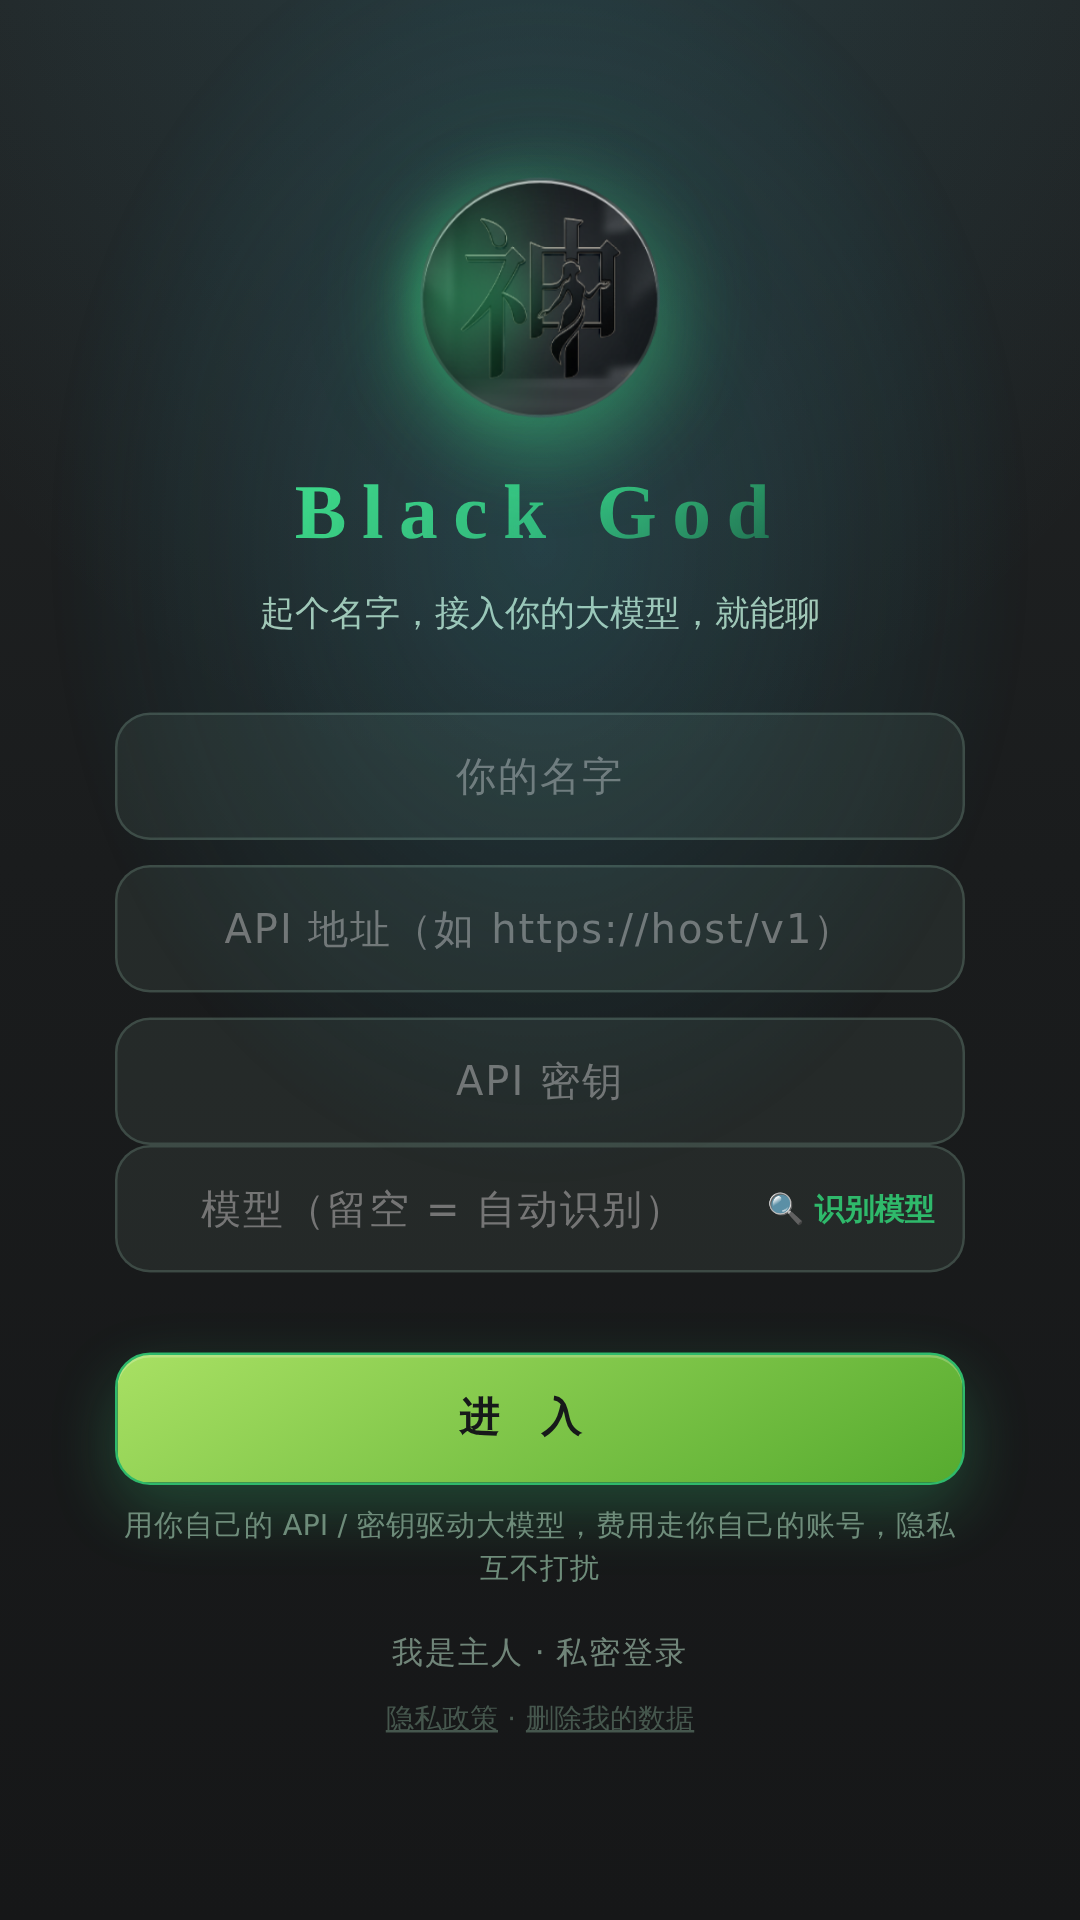
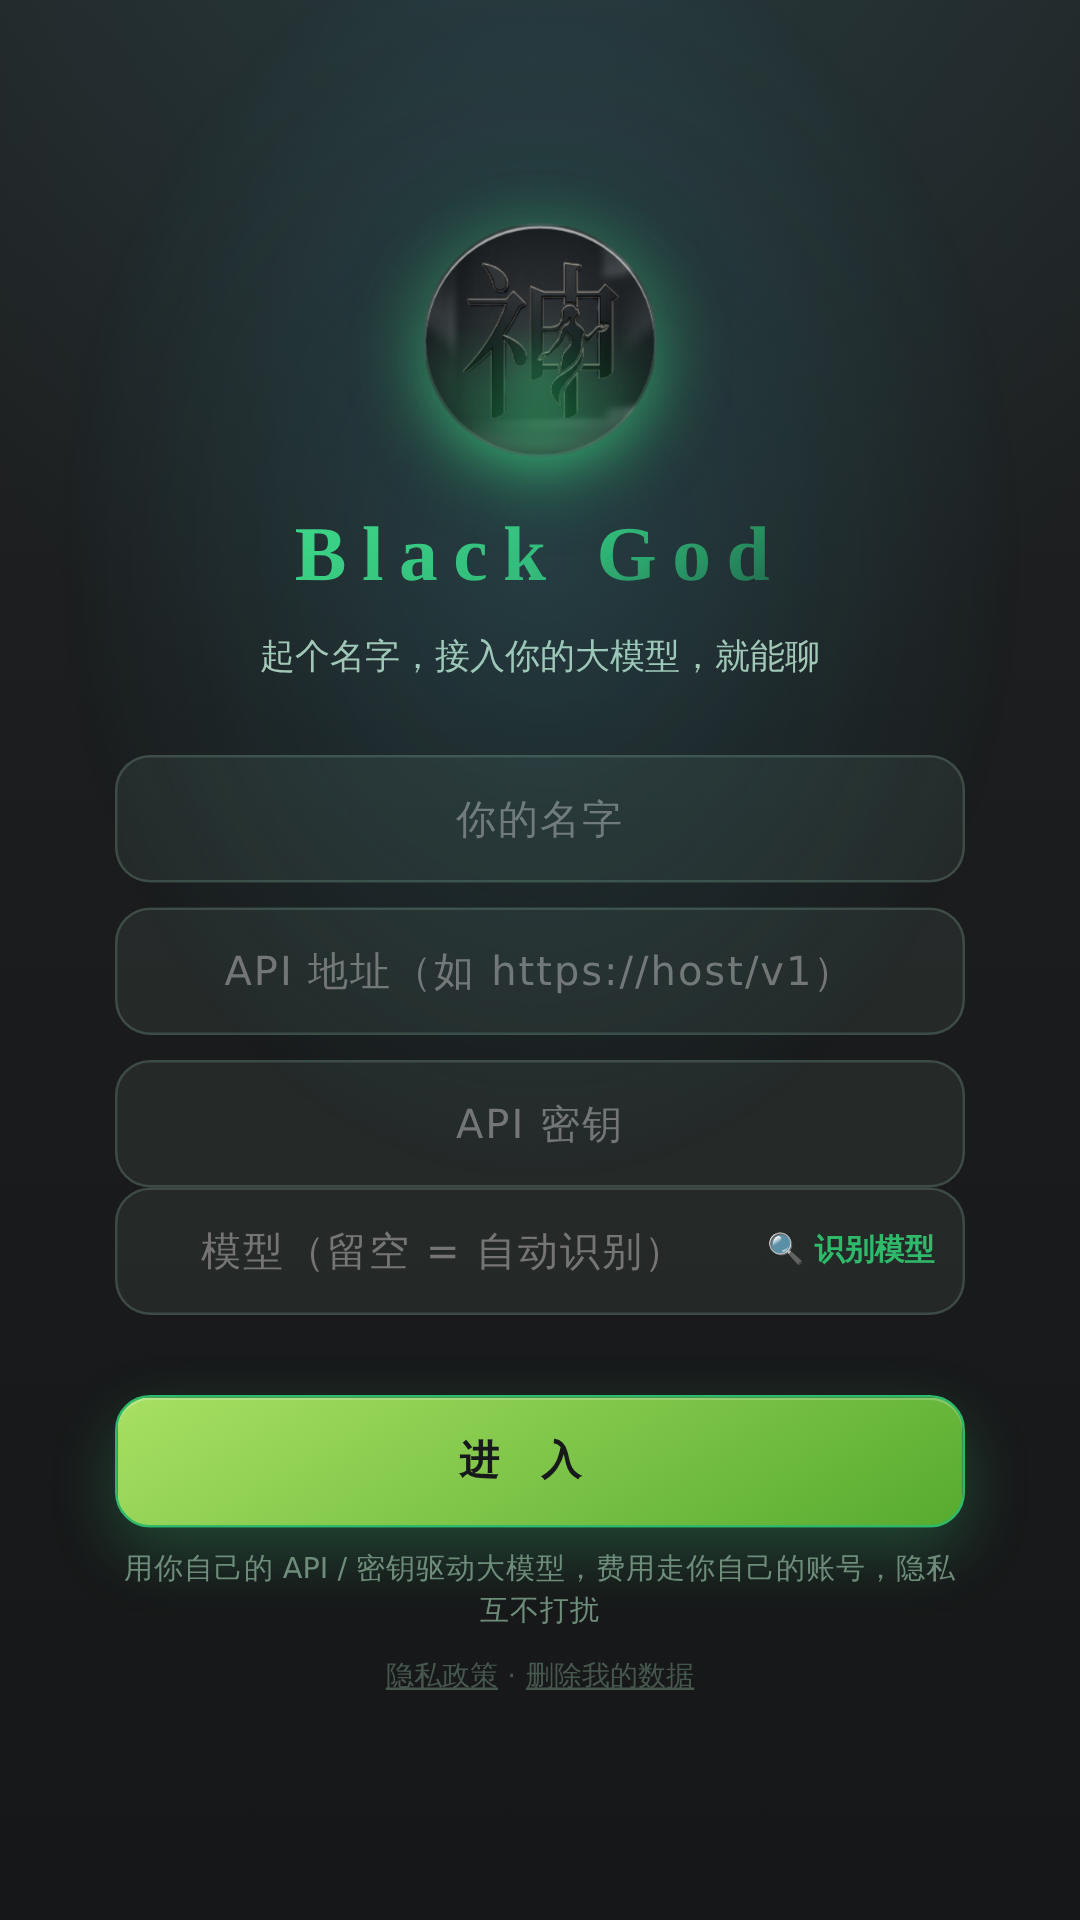
修复推理模型对话400 + 模型下拉自选 + 邮箱 + 执行脑一键粘贴 + 重截截图 (#59)
- 修复:推理模型(kimi-k2.6/o1)对话 400 —— temperature 自适应重试(callGateway/callBrain)
- 模型可见下拉自选;执行脑连接器一键粘贴(地址+token 自动拆分)
- 邮箱统一 blackgod@lufei.uk;登录门截图重截对齐现状
真机验证;build 423445·selftest 114·双副本一致。

diff --git a/TODO.md b/TODO.md
@@ -1,0 +1,49 @@
+# TODO — 神枢调用层地基改造:三根柱子(权哥 2026-07-19「去做吧」)
+
+核心:重写模型调用层(callBrain/callGateway),把三条验收线焊进系统层,而非提示词。
+铁律:先懂再动 · 不许假(真跑验过) · 只增不删既有能力 · /api/confirm 红线不动 · 保持 selftest 绿 + 双副本同步。
+
+## 架构设计
+
+统一"脑调用"管道(所有对话走它):
+```
+brainCall(system, userMsg, opts) →
+ 1. 解析 provider 配置(cfg.gateway_url/key/model | env | instance)
+ 2. 判定方言:openai | anthropic | cloudflare(按 URL/模型名特征或显式 cfg.provider)
+ 3. 用对应 ADAPTER 造请求(端点/头/体各家不同)
+ 4. 发送;失败则捕获真实原因(status + 错误体),不吞
+ 5. 重试阶梯:400 去 temperature 重试 → 换下一个脑
+ 6. 成功:用 adapter 的解析器取 text
+ 7. 出口归一化 normalizeIdentity(text, mode):抹掉"我是Kimi/由月之暗面开发"等自述→神枢/赵思涵
+ 8. 有真输出返回;全失败返回 {ok:false, error:真实原因}——绝无空壳
+```
+
+### 柱2 · Provider 适配层(集百家之长)
+- `openai`:POST {base}/chat/completions,`Authorization: Bearer`,体 {model,messages,max_tokens,temperature},取 choices[0].message.content。(兼容 Kimi/DeepSeek/通义/GLM 等)
+- `anthropic`:POST {base}/v1/messages,头 `x-api-key`+`anthropic-version`,体 {model,system,messages,max_tokens},取 content[0].text。← 让 claude-fable-5 真能被调
+- `cloudflare`:env.AI.run(现有兜底脑)
+- 判定:显式 cfg.provider 优先;否则按 URL(含 anthropic→anthropic)/模型名(claude-*→anthropic)推断
+
+### 柱1 · 身份出口归一化(换脑不换魂,系统层)
+- `normalizeIdentity(text, mode)`:确定性检测第一人称自述底层模型/厂商(我是X/我由X开发训练/作为X模型),替换为 公共=神枢(Black God)/ 主人=赵思涵。
+- 保守匹配:只抓自我identification,不误伤"用户问及某模型"这类正常内容。
+- 每条回复都过,不依赖提示词。
+
+### 柱3 · 保证真输出 · 不空回响
+- 删掉 callBrain 第 967 行"在,随时待命"空壳。
+- 失败如实带出原因(401/429/余额/格式…);跨脑真重试;全失败→诚实报错给用户,绝不假装答了。
+
+## 步骤
+- [ ] 1. 摸清所有调用点:handleTalk / runAgentLoop / callBrain / callGateway / handlePubTalk / 及生图生声里的 callBrain
+- [ ] 2. 写 adapter 层(纯函数造请求体+解析,可测)+ provider 判定
+- [ ] 3. 重构 callBrain 用 adapter + 错误捕获 + 重试阶梯 + 删空壳
+- [ ] 4. 重构 callGateway(游客)同构复用 adapter
+- [ ] 5. normalizeIdentity 出口层,接到两条返回路径
+- [ ] 6. 上层 caller 改成"失败报真错"(handleTalk/handlePubTalk)
+- [ ] 7. 加测试(adapter 造体/身份归一/不空壳);build+selftest+sync 全绿
+- [ ] 8. 真机验:Moonshot(openai 方言)跑通真回复 + 身份不漏;anthropic 造体单测
+- [ ] 9. 中文提交推送 + PR
+- [ ] 10. 总结归档
+
+## 红线
+- 不动神枢核心人格设定文案/词根/编码;/api/confirm 二次确认不动;既有 OpenAI 兼容 BYOK 路径不能退化
